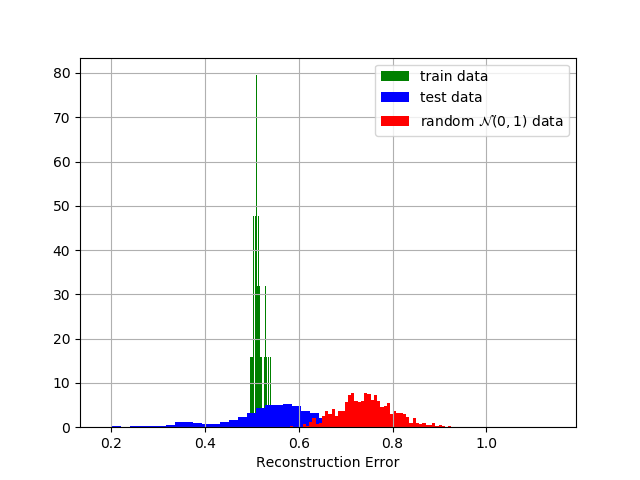
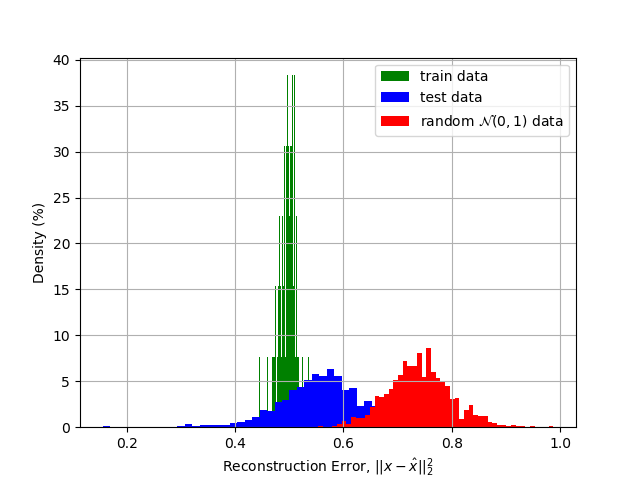
plotting...

Changed region(s): [[0.0312, 0.125, 0.9062, 1.0], [0.8438, 0.9062, 0.9062, 0.9375], [0.1562, 0.9062, 0.2188, 0.9375]]

diff --git a/main.py b/main.py
@@ -163,7 +163,8 @@ plt.hist(train_losses, 50, density=True, facecolor='g',label='train data')
 plt.hist(test_losses, 50, density=True, facecolor='b',label='test data')
 plt.hist(adv_losses, 50, density=True, facecolor='r',label='random $\mathcal{N}(0,1)$ data')
 plt.legend()
-plt.xlabel('Reconstruction Error')
+plt.xlabel('Reconstruction Error, $||x - \hat{x}||_2^2$')
+plt.ylabel('Density (%)')
 plt.grid(True)
 plt.savefig('reconstruction_error.png')
 
